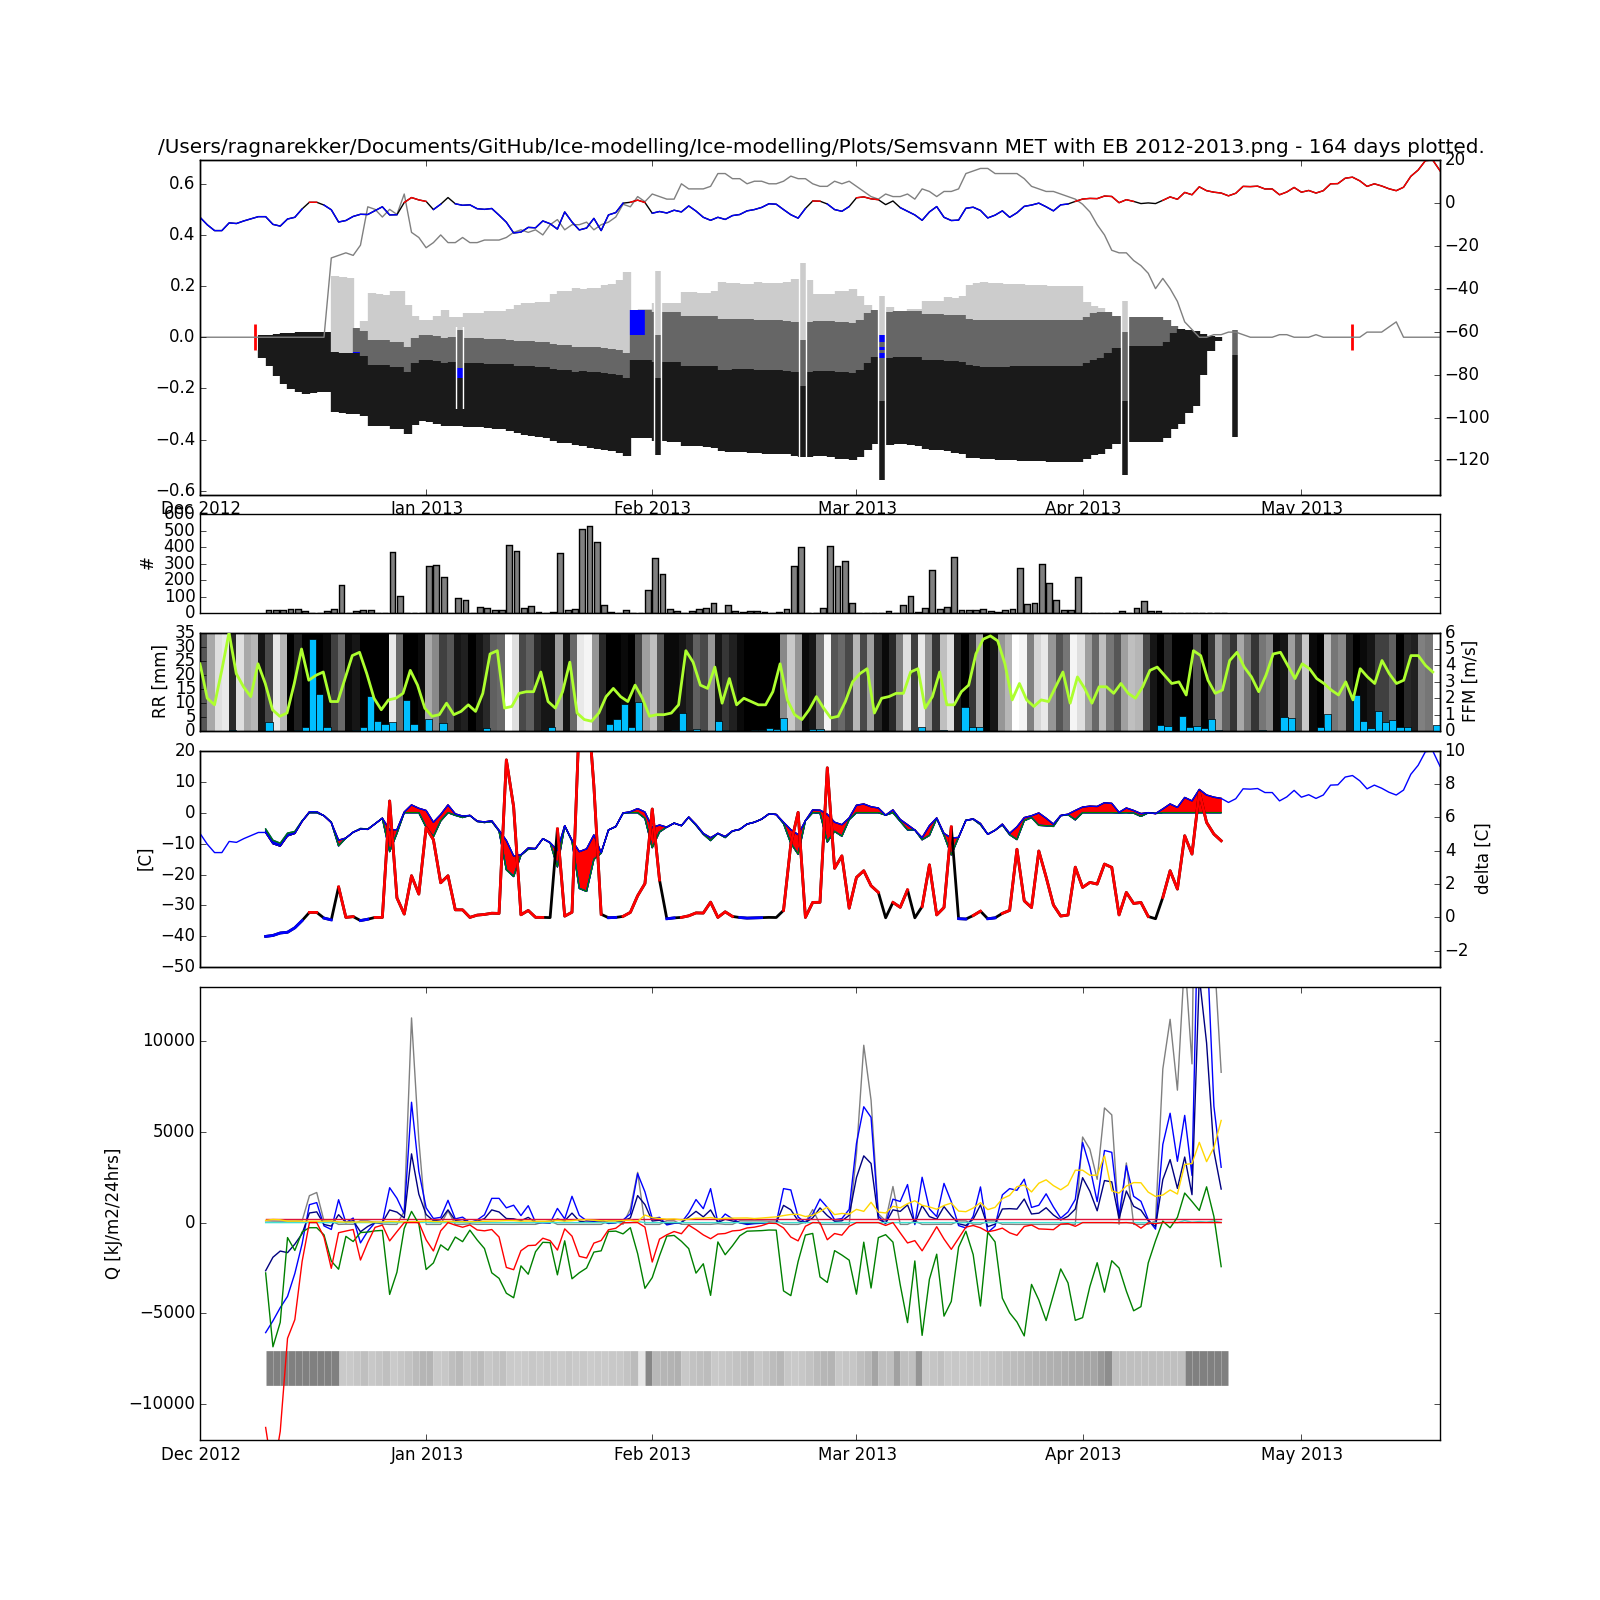
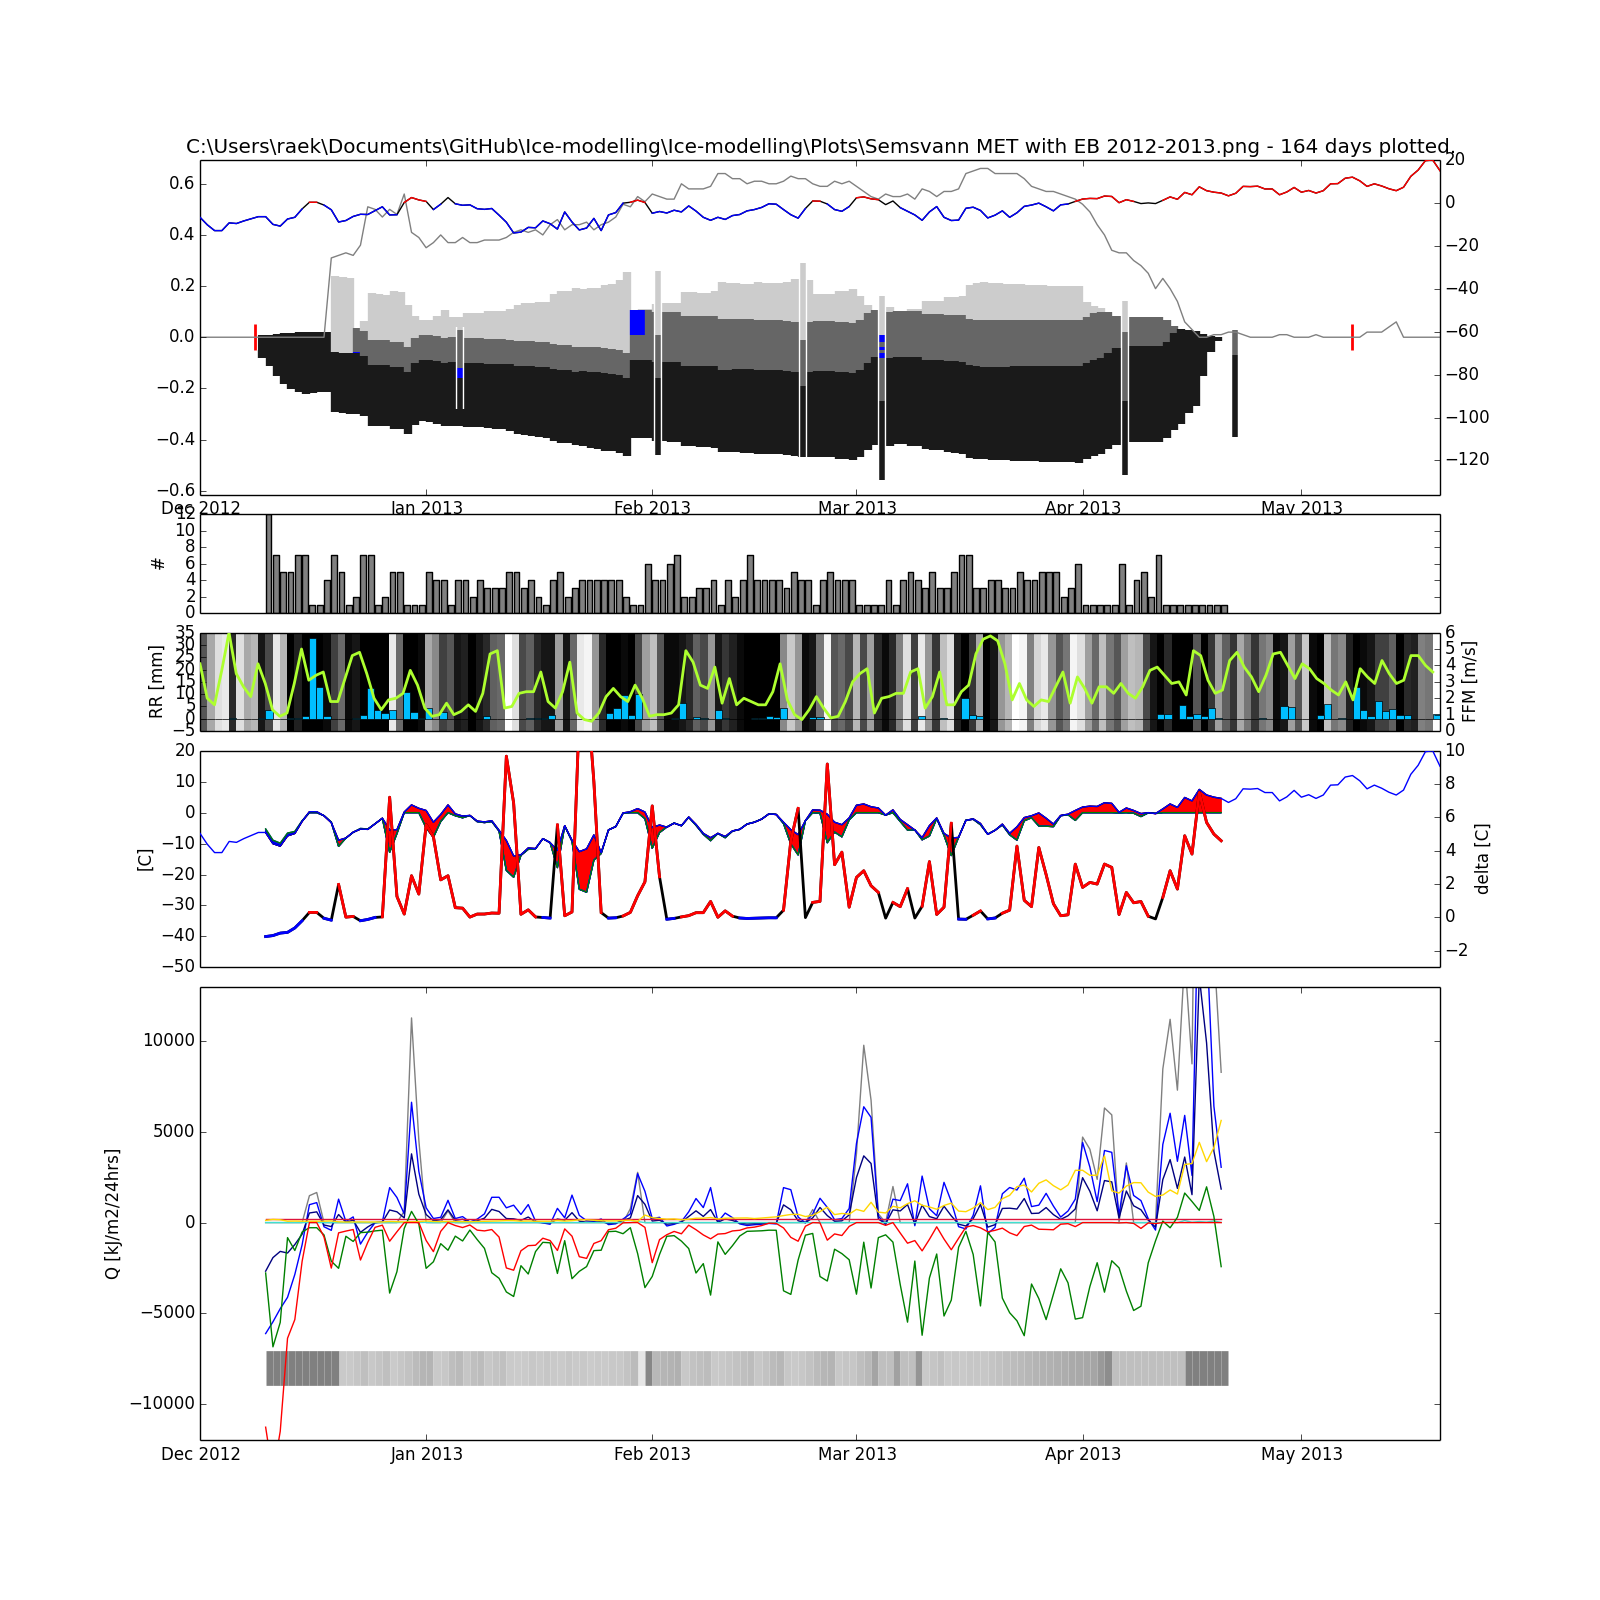
now with a newton-raphson itteration on surf temp

diff --git a/Ice-modelling/doenergybalance.py b/Ice-modelling/doenergybalance.py
@@ -44,7 +44,7 @@ def energy_balance_from_temp_sfc(
 
     For reference:  1 kWh is 3600 kJ.
                     10 000 kJ can melt 30kg ice or (3cm/m2 ice).
-                    300 W/m2 is approx 26000kJ/m2/24hrs
+                    300 W/m2 is on avarage approx 26000kJ/m2/24hrs
 
     """
 
@@ -130,6 +130,172 @@ def energy_balance_from_temp_sfc(
     energy_balance.add_surface_heat_conduction(SC, conductance)
 
     return energy_balance
+
+
+def energy_balance_from_temp_sfc_value(
+        utm33_x, utm33_y, ice_column, temp_atm, prec, prec_snow, albedo_prim, time_span_in_sec,
+        temp_surface=None, age_factor_tau=None, cloud_cover=None, wind=None, pressure_atm=None):
+    """
+    Same as energy_balance_from_temp_sfc but this method returns only the value eb
+    """
+
+    obj = energy_balance_from_temp_sfc(
+        utm33_x=utm33_x, utm33_y=utm33_y, ice_column=ice_column, temp_atm=temp_atm, prec=prec, prec_snow=prec_snow,
+        albedo_prim=albedo_prim, time_span_in_sec=time_span_in_sec,
+        temp_surface=temp_surface, age_factor_tau=age_factor_tau, cloud_cover=cloud_cover, wind=wind,
+        pressure_atm=pressure_atm)
+
+    return obj.EB
+
+
+def temp_surface_from_eb(
+        utm33_x, utm33_y, ice_column, temp_atm, prec, prec_snow, albedo_prim, time_span_in_sec,
+        error=1., age_factor_tau=None, cloud_cover=None, wind=None, pressure_atm=None,
+        iteration_method="Newton-Raphson"):
+    """Solves surface temperature from the criteria that the energy budget has to be zero.
+    This method iterates surface temperatures so that the error goes below a requested threshold.
+
+    Two iteration methods possible:
+
+    Newton-Raphson:
+        based on Newton Raphson method of root finding. Methos itteates to p/m 1 in energy balance in 3-6 iterations.
+        x_{n+1} = x_{n} - f(x_{n})/ df(x_{n})/dx
+
+    Step-delta_t:
+        iterates with a temperature step proportional with the error in energy balance. For large temperature
+        difference between surface and air temp (~10C) this method uses 4-600 iterations to get an accuracy in
+        energy baalnce of p/m 100. If I had larger temp steps (fewer iterations) the method some times did
+        not reach the requested error in eb.
+
+    :param utm33_x:
+    :param utm33_y:
+    :param ice_column:
+    :param temp_atm:
+    :param prec:
+    :param prec_snow:
+    :param albedo_prim:
+    :param time_span_in_sec:
+    :param age_factor_tau:
+    :param error:
+    :param cloud_cover:
+    :param wind:
+    :param pressure_atm:
+    :param iteration_method
+    :return:
+    """
+
+    temp_sfc = temp_atm     # initial value
+    num_iterations = 0
+    eb_obj = None
+    eb_condition = error + 1    # initial value to start while loop
+    melting = False
+
+    # calculate energy balances around surface temp to se developement.
+    debug = False
+    #if (ice_column.date).date() == dt.date(2013, 2, 24): debug = True
+    if debug == True:
+        import numpy as np
+        temps_sfc = np.linspace(temp_sfc-10., temp_sfc+10.)
+        ebs = []
+        for t in temps_sfc:
+            eb_check = energy_balance_from_temp_sfc(
+            utm33_x, utm33_y, ice_column, temp_atm, prec, prec_snow, albedo_prim, time_span_in_sec,
+            temp_surface=t, age_factor_tau=age_factor_tau, cloud_cover=cloud_cover, wind=wind, pressure_atm=pressure_atm)
+            ebs.append(eb_check.EB)
+        a = 1
+
+    if iteration_method == "Step-delta_t":
+        while abs(eb_condition) > error:
+            if temp_sfc > 0.:
+                # in this case EB(T_sfc = 0) = Q_melt
+                if melting is True:     # if the melting condition is true already (from previous iteration)
+                    break
+                temp_sfc = 0.
+                melting = True          # condition to avoid calculating EB at surf_temp multiple times-
+
+            eb_obj = energy_balance_from_temp_sfc(
+                utm33_x, utm33_y, ice_column, temp_atm, prec, prec_snow, albedo_prim, time_span_in_sec,
+                temp_surface=temp_sfc, age_factor_tau=age_factor_tau, cloud_cover=cloud_cover, wind=wind,
+                pressure_atm=pressure_atm)
+            eb = eb_obj.EB
+            delta_t = abs(eb)/50000
+
+            if eb > 0.:   # to much energy coming inn.
+                temp_sfc += delta_t
+            if eb < 0.:   # to much energy going out.
+                temp_sfc -= delta_t
+                # The melting condition is no longer valid and surface temp can be lowered
+                if melting:
+                    melting = False
+
+            num_iterations += 1
+            eb_condition = eb
+
+    if iteration_method == "Newton-Raphson":
+
+        temp_prev = temp_sfc
+        eb_prev = energy_balance_from_temp_sfc_value(utm33_x, utm33_y, ice_column, temp_atm, prec, prec_snow, albedo_prim, time_span_in_sec, temp_surface=temp_prev, age_factor_tau=age_factor_tau, cloud_cover=cloud_cover, wind=wind, pressure_atm=pressure_atm)
+
+        # if eb is positive, to much energy is coming inn and thus the surface temp is to low.
+        delta_t = eb_prev/50000
+        temp = temp_prev + delta_t
+        eb = energy_balance_from_temp_sfc_value(utm33_x, utm33_y, ice_column, temp_atm, prec, prec_snow, albedo_prim, time_span_in_sec, temp_surface=temp, age_factor_tau=age_factor_tau, cloud_cover=cloud_cover, wind=wind, pressure_atm=pressure_atm)
+        d_eb = (eb-eb_prev)/(temp-temp_prev)
+        eb_sign = abs(eb)/eb
+
+        eb_condition = eb_prev
+
+        while abs(eb_condition) > error:
+
+            # Update previous iteration values
+            eb_sign_prev = abs(eb_prev)/eb_prev
+            temp_temp_prev = temp_prev
+            temp_prev = temp
+            eb_prev = eb
+            d_eb_prev = d_eb
+
+            # if surface temp is above zero, force to zero. Also set the melting condition to True
+            if temp > 0.:
+                melting = True
+                # calculate new eb with temp equalz freezing
+                temp = 0.
+                eb = energy_balance_from_temp_sfc_value(utm33_x, utm33_y, ice_column, temp_atm, prec, prec_snow, albedo_prim, time_span_in_sec, temp_surface=temp, age_factor_tau=age_factor_tau, cloud_cover=cloud_cover, wind=wind, pressure_atm=pressure_atm)
+                eb_sign = abs(eb)/eb
+                d_eb = (eb-eb_prev)/(temp-temp_prev)
+            else:
+                melting = False
+                # if eb sign changes, half the temp step and get new eb
+                if eb_sign_prev != eb_sign:
+                    temp = (temp_prev + temp_temp_prev)/2
+                    eb = energy_balance_from_temp_sfc_value(utm33_x, utm33_y, ice_column, temp_atm, prec, prec_snow, albedo_prim, time_span_in_sec, temp_surface=temp, age_factor_tau=age_factor_tau, cloud_cover=cloud_cover, wind=wind, pressure_atm=pressure_atm)
+                    eb_sign = abs(eb)/eb
+                    d_eb = (eb-eb_prev)/(temp-temp_prev)
+
+                # else use the newton raphson with derivative
+                else:
+                    temp = temp_prev - eb_prev/d_eb_prev
+                    eb = energy_balance_from_temp_sfc_value(utm33_x, utm33_y, ice_column, temp_atm, prec, prec_snow, albedo_prim, time_span_in_sec,  temp_surface=temp, age_factor_tau=age_factor_tau, cloud_cover=cloud_cover, wind=wind, pressure_atm=pressure_atm)
+                    eb_sign = abs(eb)/eb
+                    d_eb = (eb-eb_prev)/(temp-temp_prev)
+
+            num_iterations += 1
+            eb_condition = eb
+
+            # If we have a positive eb and the melting condition (temp=0) is true it is time to break.
+            if eb >= 0.:
+                if melting == True:
+                    break
+            else:
+                melting = False
+
+        eb_obj = energy_balance_from_temp_sfc(
+            utm33_x, utm33_y, ice_column, temp_atm, prec, prec_snow, albedo_prim, time_span_in_sec,
+            temp_surface=temp, age_factor_tau=age_factor_tau, cloud_cover=cloud_cover, wind=wind,
+            pressure_atm=pressure_atm)
+
+    eb_obj.add_iterations(num_iterations)
+
+    return eb_obj
 
 
 def get_albedo_walter(prec_snow, snow_depth, snow_density, temp_atm, albedo_prim, time_span_in_sec, time_hour):
@@ -646,134 +812,6 @@ def get_surface_heat_conduction(ice_column, temp_surface, time_span_in_sec):
 
     return SC, surface_conductance
 
-
-def temp_surface_from_eb(
-        utm33_x, utm33_y, ice_column, temp_atm, prec, prec_snow, albedo_prim, time_span_in_sec,
-        error=100., age_factor_tau=None, cloud_cover=None, wind=None, pressure_atm=None, iteration_method="Step-delta_t"):
-    """Solves surface temperature from the criteria that the energy budget has to be zero.
-    This method iterates surface temperatures so that the error goes below a requested threshold.
-
-    INCOMPLETE: method needs iterations in the case that surface temp is at melting temp (0C)
-
-    based on Newton Raphson method of root finding, based on
-    x_{n+1} = x_{n} - f(x_{n})/ df(x_{n})/dx
-
-    :param utm33_x:
-    :param utm33_y:
-    :param ice_column:
-    :param temp_atm:
-    :param prec:
-    :param prec_snow:
-    :param albedo_prim:
-    :param time_span_in_sec:
-    :param age_factor_tau:
-    :param error:
-    :param cloud_cover:
-    :param wind:
-    :param pressure_atm:
-    :param iteration_method
-    :return:
-    """
-
-    temp_sfc = temp_atm     # initail value
-    num_iterations = 0
-    eb_obj = None
-    eb_condition = error + 1    # initial value to start while loop
-
-    if iteration_method == "Step-delta_t":
-        melting = False
-
-        while abs(eb_condition) > error:
-            if temp_sfc > 0.:
-                # in this case EB(T_sfc = 0) = Q_melt
-                if melting is True:     # if the melting condition is true already (from previous iteration)
-                    break
-                temp_sfc = 0.
-                melting = True      # condition to avoid calculating EB at surf_temp multiple times-
-
-            eb_obj = energy_balance_from_temp_sfc(
-                utm33_x, utm33_y, ice_column, temp_atm, prec, prec_snow, albedo_prim, time_span_in_sec,
-                temp_surface=temp_sfc, age_factor_tau=age_factor_tau, cloud_cover=cloud_cover, wind=wind, pressure_atm=pressure_atm)
-            eb = eb_obj.EB
-            delta_t = abs(eb)/50000
-
-            if eb > 0.:   # to much energy coming inn.
-                temp_sfc += delta_t
-            if eb < 0.:   # to much energy going out.
-                temp_sfc -= delta_t
-                # The melting condition is no longer valid and surface temp can be lowered
-                if melting:
-                    melting = False
-
-            num_iterations += 1
-            eb_condition = eb
-
-
-    if iteration_method == "Newton-Raphson":
-
-        eb_obj = energy_balance_from_temp_sfc(
-            utm33_x, utm33_y, ice_column, temp_atm, prec, prec_snow, albedo_prim, time_span_in_sec,
-            temp_surface=temp_sfc, age_factor_tau=age_factor_tau, cloud_cover=cloud_cover, wind=wind,
-            pressure_atm=pressure_atm)
-        eb = eb_obj.EB
-
-        eb_prev = None
-        temp_sfc_prev = None
-
-        while abs(eb_condition) > error:
-            # calculate the derivative with forward difference. EB(temp+delta_temp) calculatet seperately.
-            delta_t = 0.05      # [C]
-            eb_diff_obj = energy_balance_from_temp_sfc(
-                utm33_x, utm33_y, ice_column, temp_atm, prec, prec_snow, albedo_prim, time_span_in_sec,
-                temp_surface=(temp_sfc+delta_t), age_factor_tau=age_factor_tau, cloud_cover=cloud_cover,
-                wind=wind, pressure_atm=pressure_atm)
-            eb_diff = eb_diff_obj.EB
-            d_temp_sfc = (eb_diff - eb)/delta_t
-
-            # get the new surface temp and first energy balance
-            temp_sfc = temp_sfc_prev - eb_prev/d_temp_sfc
-            eb_obj = energy_balance_from_temp_sfc(
-                utm33_x, utm33_y, ice_column, temp_atm, prec, prec_snow, albedo_prim, time_span_in_sec,
-                temp_surface=temp_sfc, age_factor_tau=age_factor_tau, cloud_cover=cloud_cover, wind=wind,
-                pressure_atm=pressure_atm)
-            eb = eb_obj.EB
-
-            # If we have melting conditions test if temp_surf=0 gives
-            if temp_sfc > 0:
-                temp_sfc = 0.
-                if eb < 0:
-                    break
-                else:
-                    eb_obj = energy_balance_from_temp_sfc(
-                             utm33_x, utm33_y, ice_column, temp_atm, prec, prec_snow, albedo_prim, time_span_in_sec,
-                             temp_surface=temp_sfc, age_factor_tau=age_factor_tau, cloud_cover=cloud_cover, wind=wind,
-                             pressure_atm=pressure_atm)
-                    eb = eb_obj.EB
-                    if eb < 0:
-                        break
-
-            num_iterations += 1
-            eb_condition = eb
-
-
-    # calculate energy balances around surface temp to se developement.
-    debug = False
-    #if (ice_column.date).date() == dt.date(2013, 3, 6): debug = True
-
-    if debug is True:
-        import numpy as np
-        temps_sfc = np.linspace(temp_sfc-10., temp_sfc+10.)
-        ebs = []
-        for t in temps_sfc:
-            eb_check = energy_balance_from_temp_sfc(
-            utm33_x, utm33_y, ice_column, temp_atm, prec, prec_snow, albedo_prim, time_span_in_sec,
-            temp_surface=t, age_factor_tau=age_factor_tau, cloud_cover=cloud_cover, wind=wind, pressure_atm=pressure_atm)
-            ebs.append(eb_check.EB)
-        a = 1
-
-    eb_obj.add_iterations(num_iterations)
-
-    return eb_obj
 
 if __name__ == "__main__":
 

diff --git a/Ice-modelling/doicethickness.py b/Ice-modelling/doicethickness.py
@@ -43,7 +43,8 @@ def get_ice_thickness_from_energy_balance(
     else:
         energy_balance = deb.temp_surface_from_eb(
             utm33_x, utm33_y, ice_column, temp_atm, prec, prec_snow, albedo_prim, time_span_in_sec,
-            error=100., age_factor_tau=age_factor_tau, cloud_cover=cloud_cover, wind=wind, pressure_atm=pressure_atm)
+            error=1., age_factor_tau=age_factor_tau, cloud_cover=cloud_cover, wind=wind, pressure_atm=pressure_atm,
+            iteration_method="Newton-Raphson")
 
         surface_temp = energy_balance.temp_surface
         out_column = None

diff --git a/Ice-modelling/makePlots.py b/Ice-modelling/makePlots.py
@@ -239,9 +239,6 @@ def plotIcecoverEB(icecover, energy_balance, observed_ice, date, temp, snotot, f
     plb.ylim(-4*(max(temp)-min(temp)), max(temp))
 
 
-
-
-
     ########################################
 
     temp_atm = []
